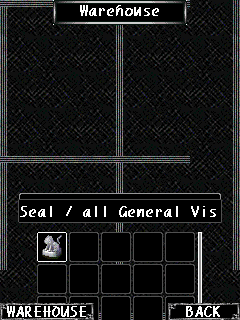
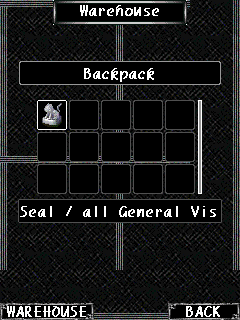
Gamevil Live: raise the Backpack / Warehouse grid above the soft keys (ORIG-BUG B9)
m.bv() computed the grid top as 255 - 38 + fK[6] (...), so the caption sat under
the description strip and the 3 rows ran to y 326, under BACK / WAREHOUSE.
Now the caption + grid + strip block is centred: caption y 62, rows y 100..194,
strip y 200. Flag config.ORIG_BUG["B9"], test, updated gamevil_live shots.

Claude-Session: https://claude.ai/code/session_01Pra1eqdVNK5ggL6pinhhc9

Changed region(s): [[0.0583, 0.3125, 0.9333, 0.625], [0.1458, 0.7188, 0.8458, 1.0], [0.0583, 0.1875, 0.9333, 0.2812]]

diff --git a/pyport/tests/test_bigger_storage.py b/pyport/tests/test_bigger_storage.py
@@ -154,3 +154,28 @@ def test_mp_loot_uses_the_new_cells_of_an_old_save(tmp_path, monkeypatch):
     assert d[S.SAVE_LEN] == S.BACKPACK_EXTRA_MARK
     assert struct.unpack_from("<hhhhhB", d, S.SAVE_LEN + 2) == (118, 9, 0, 0, 0, 0)
     assert d[0] | d[1] << 8 == S.SAVE_LEN + 2 + 11 * (config.BACKPACK_SIZE - 25)
+
+
+def test_live_grid_above_softkeys(monkeypatch):
+    """ORIG-BUG B9: the Backpack / Warehouse grid of Gamevil Live ends above the description strip
+    (y 200) and the soft keys, also with the bigger Warehouse."""
+    from pow.game.game_canvas import GameCanvas
+    from pow.game.live import Live
+    from pow.game.live_screen import LiveScreen
+    tops = []
+    monkeypatch.setattr(LiveScreen, "draw_caption_box", lambda self, s, y: tops.append(y))
+    stub = type("M", (), {"draw_item_grid": lambda self, y, items, marks: tops.append(y),
+                          "draw_description_strip": lambda self: None})()
+    monkeypatch.setattr(GameCanvas, "menus", stub)
+    monkeypatch.setattr(GameCanvas, "describe_shop_item", lambda *a: None)
+    monkeypatch.setattr(GameCanvas, "hero", type("H", (), {"backpack": [None] * config.BACKPACK_SIZE})())
+    monkeypatch.setattr(Live, "warehouse", [None] * config.WAREHOUSE_SIZE)
+    monkeypatch.setattr(GameCanvas, "draw_softkeys", lambda *a: None)
+    GameCanvas.cursor[6] = 32 * 3 - 4 + 2
+    GameCanvas.cursor[18] = 0
+    for flag in (0, 1):
+        Live.flags[7] = flag
+        tops.clear()
+        LiveScreen.draw_grid(LiveScreen.__new__(LiveScreen))
+        caption, grid = tops
+        assert caption >= 22 and grid + GameCanvas.cursor[6] <= 198, tops

diff --git a/pyport/pow/game/live_screen.py b/pyport/pow/game/live_screen.py
@@ -2,6 +2,7 @@
 
 as.a = m(); ag.L() calls as.aK() -> m.a() every frame while bV == 11. as.ho picks the screen.
 """
+import config
 from pow.game.game_canvas import GameCanvas
 from pow.game.gfx import Gfx
 from pow.game.live import B5, Live
@@ -294,7 +295,10 @@ class LiveScreen(Live):
         else:
             caption = "Warehouse"
             items = Live.warehouse
-        i = 20 + (255 - 38 + GameCanvas.cursor[6] + 16 + 22 >> 1)
+        if config.ORIG_BUG["B9"]:      # ORIG-BUG B9: centre caption + grid + strip, grid above the strip
+            i = 20 + (255 - (38 + GameCanvas.cursor[6] + 16 + 22) >> 1)
+        else:
+            i = 20 + (255 - 38 + GameCanvas.cursor[6] + 16 + 22 >> 1)
         self.draw_caption_box(caption, i)
         i += 38
         GameCanvas.menus.draw_item_grid(i, items, None)

diff --git a/pyport/config.py b/pyport/config.py
@@ -61,6 +61,9 @@ ORIG_BUG = {
                  # of the last grid screen (Gamevil Live: 9 rows) -> af[34] -> AIOOBE
     "B8": True,  # ag.java:872-967 entering the map clears the enemy effect data (fn = null) but not its
                  # kind: a general that was mid-skill leaves kind 2 -> the next enemy reads fn[..] -> NPE
+    "B9": True,  # m.bv() 365 Gamevil Live Backpack / Warehouse grid: 255 - 38 + fK[6] puts the caption at
+                 # y 194 under the description strip and the 3 rows at y 232..326, under the soft keys
+                 # -> 255 - (38 + fK[6] + 16 + 22): caption y 62, rows y 100..194, strip y 200
 }
 
 # Gamevil Live of the single player (pow_server/live.py): "local" = the server inside the game

diff --git a/pyport/README.md b/pyport/README.md
@@ -295,6 +295,7 @@ platform»), тому `pow/midp/graphics.py` у браузері декодує 
 | B6 | `ar.java` 179 | меню паузи на карті, Items: FIRE на 5-му слоті відкривав Help, бо умова `cM[0] == 10 && cM[1] == 4` не перевіряє `cR.a == 1`. Після повернення в Items лічильник рядків лишався 7 на 5 слотів, тож RIGHT ставив курсор на 6-й і 7-й слоти, і виникав ArrayIndexOutOfBounds. Тепер Help відкривається лише з рядка списку. Знайдено фазером випадкових натискань (B6-B8) |
 | B7 | `e.java` 2694-2707 | Blacksmith → Combine, коли предметів менше трьох: попап 39 виходить поверх сітки, яка зберігає прокрутку й курсор (`fK[8]`, `fK[18]`) останнього екрана із сіткою. Після 9-рядкового Warehouse у Gamevil Live вони вказують за `af[24]`, і виникає ArrayIndexOutOfBounds. Тепер прокрутка й курсор скидаються |
 | B8 | `ag.java` 872-967 | вхід на карту обнуляє дані ефекту ворога (`fn = null`), але не його вид, хоча вид ефекту героя обнуляє. Генерал, який був посеред скіла, лишає вид 2, і наступний ворог читає `fn[..]`, тобто NullPointerException. Тепер вид теж обнуляється |
+| B9 | `m.bv()` 365 | Gamevil Live, сітка Backpack / Warehouse (і Sell): `255 - 38 + fK[6]` замість `255 - (38 + fK[6] + 16 + 22)` ставить заголовок під смугу опису (y 194), а 3 ряди сітки на y 232..326, під софт-кнопки. Тепер заголовок y 62, сітка y 100..194, смуга опису під нею (y 200) |
 
 ### Меню
 
